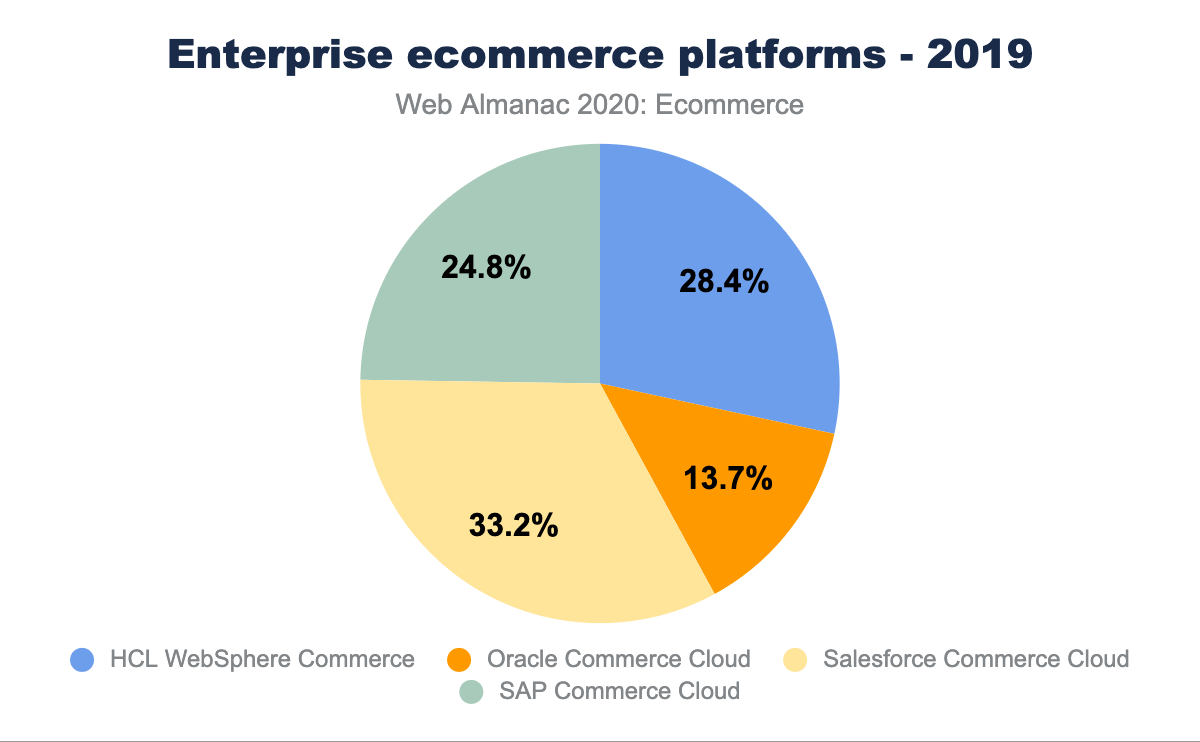
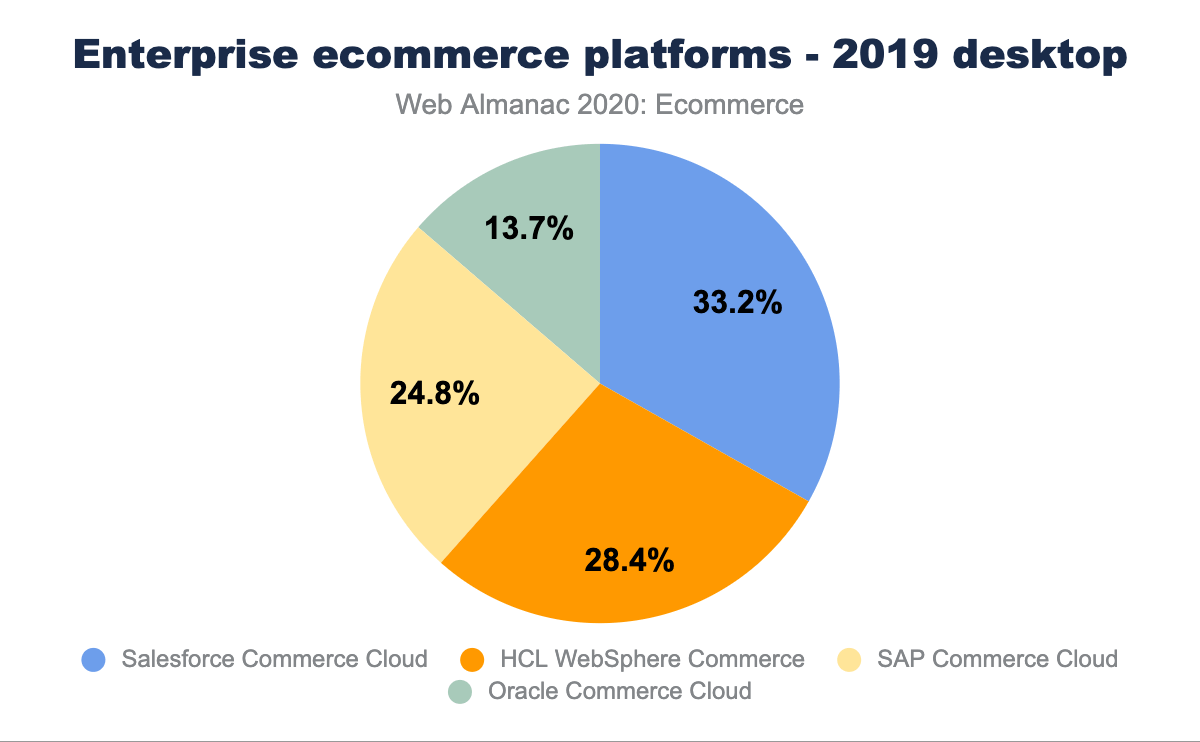
Misc edits

diff --git a/src/content/en/2020/ecommerce.md b/src/content/en/2020/ecommerce.md
@@ -25,6 +25,7 @@ unedited: true
 ---
 
 ## Introduction
+
 An "ecommerce platform" is a set of software or services that enables you to create and operate an online store. There are several types of ecommerce platforms, for example:
 
 - Paid-for services such as Shopify that host your store and help you get started. They provide website hosting, site and page templates, product-data management, shopping carts and payments.
@@ -55,7 +56,7 @@ Our methodology has the following limitations:
 {{ figure_markup(
   image="ecommerce-comparison-2019-to-2020.png",
   caption="Ecommerce comparison 2019 to 2020.",
-  description="A bar chart showing...",
+  description="A bar chart showing desktop detection of ecommerce websites has increased from 9.67% of sites, to 21.72%. Mobile has similarly increased from 9.41% to 21.27%.",
   chart_url="https://docs.google.com/spreadsheets/d/e/2PACX-1vQ65OxpVGpTJVuFhG6EIO55Z_itqFtGnoYLm7W7SEBaRL-YGDUJsBMVrlDjLa-fNdeyNdqXxJt4a-xc/pubchart?oid=1775630157&format=interactive",
   sheets_gid="856812465",
   sql_file="pct_ecommsites_bydevice_compare20192020.sql"
@@ -70,13 +71,13 @@ In total, 21.72% of mobile websites and 21.27% of desktop websites used an ecomm
 {{ figure_markup(
   image="top-ecommerce-platforms.png",
   caption="Top ecommerce platforms.",
-  description="A bar chart showing...",
+  description="A bar chart showing in descending order the usage of ecommerce platforms with WooCommerce at 5.12% on desktop and 5.19% on mobile, followed by Shopify (2.55% and 2.48% respectively), Wix (1.05% and 1.24%), Magneto (1.03% and 0.96%), Prestashop (0.91%, 0.94%), 1C-Bitrix (0.64% and 0.65%), Bigcommerce (0.24% and 0.21%), Cafe24 (0.21% and 0.12%), Shopware (0.14% for both), and Loja Integrade at 0.08% and 0.09% respectively.",
   chart_url="https://docs.google.com/spreadsheets/d/e/2PACX-1vQ65OxpVGpTJVuFhG6EIO55Z_itqFtGnoYLm7W7SEBaRL-YGDUJsBMVrlDjLa-fNdeyNdqXxJt4a-xc/pubchart?oid=795567278&format=interactive",
   sheets_gid="872326386",
   sql_file="top_vendors.sql"
 ) }}
 
-Our analysis counted 145 separate ecommerce platforms (compared to [116 in last year's analysis](../2019/ecommerce#ecommerce-platforms)). Out of these, only 9 platforms have market share of greater than 0.1%. WooCommerce is the most common ecommerce platform and has maintained its number one position. Wix appears in are analysis for the first time this year after Wappalyzer started identifying it as ecommerce platform from 30th Jun 2019.
+Our analysis counted 145 separate ecommerce platforms (compared to [116 in last year's analysis](../2019/ecommerce#ecommerce-platforms)). Out of these, only 9 platforms have market share of greater than 0.1%. WooCommerce is the most common ecommerce platform and has maintained its number one position. Wix appears in this analysis for the first time this year after Wappalyzer started identifying it as ecommerce platform from 30th Jun 2019.
 
 ### Top enterprise ecommerce platforms
 
@@ -84,8 +85,8 @@ While it is difficult to discern a platform's precise tier let us highlight four
 
 {{ figure_markup(
   image="enterprise-ecommerce-platforms.png",
-  caption="Enterprise ecommerce platforms.",
-  description="A bar chart showing...",
+  caption="Enterprise ecommerce platforms (desktop).",
+  description="A bar chart showing Salesforce Commerce Cloud by 2,653 and 3,347, HCL WebSphere Commerce is used by 2,268 desktop sites in 2019 and 2,604 in 2020, SAP Commerce Cloud by 1,979 and 2,371, and Oracle Commerce Cloud by 1,095 and 917.",
   chart_url="https://docs.google.com/spreadsheets/d/e/2PACX-1vQ65OxpVGpTJVuFhG6EIO55Z_itqFtGnoYLm7W7SEBaRL-YGDUJsBMVrlDjLa-fNdeyNdqXxJt4a-xc/pubchart?oid=783560373&format=interactive",
   sheets_gid="1789086753",
   sql_file="top_vendors.sql"
@@ -101,8 +102,8 @@ Lastly, Oracle Commerce Cloud unfortunately lost a bit of traction between 2019 
 
 {{ figure_markup(
   image="enterprise-ecommerce-platforms-2019.png",
-  caption="Enterprise ecommerce platforms - 2019",
-  description="A pie chart showing...",
+  caption="Enterprise ecommerce platforms - 2019 desktop",
+  description="A pie chart showing Salesforce Commerce Cloud was used by 33.2% of the enterprise ecommerce market in 2019, HCL WebSphere Commerce by 28.4%, SAP Commerce Cloud by 24.8%, and Oracle Commerce Cloud by 13.7%. ",
   chart_url="https://docs.google.com/spreadsheets/d/e/2PACX-1vQ65OxpVGpTJVuFhG6EIO55Z_itqFtGnoYLm7W7SEBaRL-YGDUJsBMVrlDjLa-fNdeyNdqXxJt4a-xc/pubchart?oid=1864431795&format=interactive",
   sheets_gid="1789086753",
   sql_file="top_vendors.sql"
@@ -110,8 +111,8 @@ Lastly, Oracle Commerce Cloud unfortunately lost a bit of traction between 2019 
 
 {{ figure_markup(
   image="enterprise-ecommerce-platforms-2020.png",
-  caption="Enterprise ecommerce platforms - 2020",
-  description="A pie chart showing...",
+  caption="Enterprise ecommerce platforms - 2020 desktop",
+  description="A pie chart showing Salesforce Commerce Cloud was used by 36.8% of the enterprise ecommerce market in 2020, HCL WebSphere Commerce by 27.9%, SAP Commerce Cloud by 25.4%, and Oracle Commerce Cloud by 9.8%.",
   chart_url="https://docs.google.com/spreadsheets/d/e/2PACX-1vQ65OxpVGpTJVuFhG6EIO55Z_itqFtGnoYLm7W7SEBaRL-YGDUJsBMVrlDjLa-fNdeyNdqXxJt4a-xc/pubchart?oid=1013485197&format=interactive",
   sheets_gid="1789086753",
   sql_file="top_vendors.sql"
@@ -476,9 +477,9 @@ The median notifications acceptance rates for an ecommerce website is 13.6% on m
 
 ## Future analysis opportunities
 
-This year's [SEO](./seo) chapter includes analysis of websites using 'hreflang' and 'content-language' attributes. This combined with Wappalyzer detection of cross-border commerce solutions like Global-e, Flow, Borderfree can provide opportunity to just look at Cross border commerce aspects of the ecommerce websites. Currently Wappalyzer doesn't have a separate category for 'Cross-border commerce' and hence this type of analysis is not possible unless we build a repository of such solutions ourselves.
+This year's [SEO](./seo) chapter includes analysis of websites using `hreflang` and `lang` attributes, and `content-language` HTTP headers. This combined with Wappalyzer detection of cross-border commerce solutions like Global-e, Flow, Borderfree can provide opportunity to just look at Cross border commerce aspects of the ecommerce websites. Currently Wappalyzer doesn't have a separate category for 'Cross-border commerce' and hence this type of analysis is not possible unless we build a repository of such solutions ourselves.
 
 ## Conclusion
 
-{# TODO (authors) - write a conclusion #}
+We have taken a deep dive into the state of ecommerce on the web in 2020 and seen some
 
